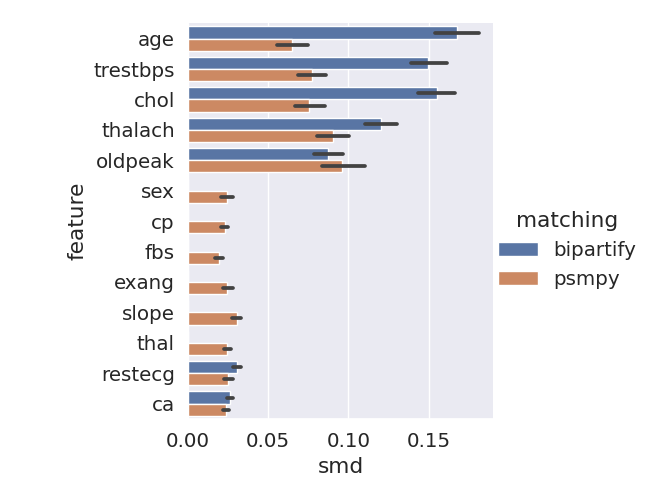
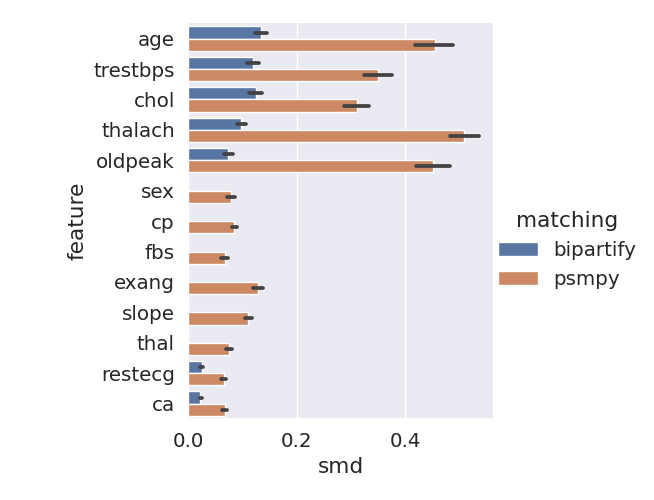
Fix convergence porblem with LR and RF

diff --git a/experiment/psmpy_vs_bipartify/compare_propensity_matching.py b/experiment/psmpy_vs_bipartify/compare_propensity_matching.py
@@ -10,20 +10,24 @@ from statsmodels.stats.meta_analysis import effectsize_smd
 from formulaic import ModelSpec, Formula
 from formulaic.parser.types.factor import Factor
 from popmatch.match import bipartify, split_populations_with_error, psmpy_match
-from popmatch.evaluation import compute_smd, compute_target_diff
+from popmatch.evaluation import compute_smd, compute_target_mean_difference
 from popmatch.preprocess import preprocess
 from popmatch.propensity import propensity_score
 from popmatch.experiment import dict_cache
 from popmatch.plot import plot_smds
 from scipy.stats import ttest_rel
+import itertools
+import tqdm
 
 
 experiment = {
     'input': {
         'dataset': 'heart',
-        #'propensity_model': 'logistic_regression',
-        'propensity_model': 'random_forest',
+        'propensity_model': 'logistic_regression',
+        #'propensity_model': 'random_forest',
         #'propensity_model': 'psmpy',
+        'propensity_transform': 'identity',
+        # 'propensity_transform': 'logit',
         'clip_score': 0.05,
         'calibrated': True,
         'random_state': 12,
@@ -36,41 +40,48 @@ experiment = {
 load_data(experiment)
 standardize_continuous_features(experiment)
 preprocess(experiment)
-split_ids = []
-targets = []
-for seed in range(0, 100):
-    split_id = 'split' + str(seed)
-    split_ids.append(split_id)
-    for not_already in dict_cache(experiment, split_id):
-        split_populations_with_error(experiment, input_random_state=seed, splitid=split_id)
-    propensity_score(experiment, input_random_state=seed, splitid=split_id)
-    bipartify(experiment, splitid=split_id, input_random_state=seed, n_match=1, feature_weight=0.1, verbose=1)
-    psmpy_match(experiment, splitid=split_id, input_random_state=seed)
 
-    bipartify_smd = compute_smd(experiment, splitid=split_id, matching='bipartify').smd.mean()
-    bipartify_n0, bipartify_n1, bipartify_target_diff = compute_target_diff(experiment, splitid=split_id, matching='bipartify')
-    targets.append({'n0': bipartify_n0, 'n1': bipartify_n1, 'target': bipartify_target_diff, 'matching': 'bipartify', 'split_id': split_id})
+transforms = ['score', 'logit']
+models = ['logistic_regression', 'random_forest', 'psmpy']
+for transform, model in itertools.product(transforms, models):
+    split_ids = []
+    targets = []
+    for seed in tqdm.tqdm(list(range(0, 100))):
+        split_id = 'split' + str(seed)
+        split_ids.append(split_id)
+        for not_already in dict_cache(experiment, split_id):
+            split_populations_with_error(experiment, input_random_state=seed, splitid=split_id)
+        propensity_score(experiment, input_random_state=seed, splitid=split_id,
+                         input_propensity_model=model, input_propensity_transform=transform)
+        bipartify(experiment, splitid=split_id, input_random_state=seed, n_match=1, feature_weight=0.1, verbose=1)
+        psmpy_match(experiment, splitid=split_id, input_random_state=seed)
 
-    psmpy_smd = compute_smd(experiment, splitid=split_id, matching='psmpy').smd.mean()
-    psmpy_n0, psmpy_n1, psmpy_target_diff = compute_target_diff(experiment, splitid=split_id, matching='psmpy')
-    targets.append({'n0': psmpy_n0, 'n1': psmpy_n1, 'target': psmpy_target_diff, 'matching': 'psmpy', 'split_id': split_id})
-    
-    print('Bipartify SMD', bipartify_smd)
-    print('Bipartify n0 / n1', bipartify_n0, bipartify_n1)
-    print('Bipartify target diff', bipartify_target_diff)
-    print('PsmPy SMD', psmpy_smd)
-    print('PsmPy n0 / n1', psmpy_n0, psmpy_n1)
-    print('PsmPy target diff', psmpy_target_diff)
-# compute_smd_baseline(experiment)
+        bipartify_smd = compute_smd(experiment, splitid=split_id, matching='bipartify').smd.mean()
+        bipartify_n0, bipartify_n1, bipartify_target_diff = compute_target_mean_difference(experiment, splitid=split_id, matching='bipartify')
+        targets.append({'n0': bipartify_n0, 'n1': bipartify_n1, 'target': bipartify_target_diff, 'matching': 'bipartify', 'split_id': split_id})
 
-plot_smds(experiment, split_ids, ['bipartify', 'psmpy'])
-targets = pd.DataFrame.from_records(targets).sort_values(by='split_id')
-targets_b = targets[targets.matching == 'bipartify'].target.values
-targets_p = targets[targets.matching == 'psmpy'].target.values
-print(targets.groupby('matching').mean())
-print('Bipartify wins {} percent of the times'.format((targets_b < targets_p).mean() * 100))
-print(targets.groupby('matching').target.describe())
-print(ttest_rel(targets_p, targets_b))
+        psmpy_smd = compute_smd(experiment, splitid=split_id, matching='psmpy').smd.mean()
+        psmpy_n0, psmpy_n1, psmpy_target_diff = compute_target_mean_difference(experiment, splitid=split_id, matching='psmpy')
+        targets.append({'n0': psmpy_n0, 'n1': psmpy_n1, 'target': psmpy_target_diff, 'matching': 'psmpy', 'split_id': split_id})
+        
+        # print('Bipartify SMD', bipartify_smd)
+        # print('Bipartify n0 / n1', bipartify_n0, bipartify_n1)
+        # print('Bipartify target diff', bipartify_target_diff)
+        # print('PsmPy SMD', psmpy_smd)
+        # print('PsmPy n0 / n1', psmpy_n0, psmpy_n1)
+        # print('PsmPy target diff', psmpy_target_diff)
+    # compute_smd_baseline(experiment)
+
+    print(f'Results for {transform} {model}')
+    plot_smds(experiment, split_ids, ['bipartify', 'psmpy'], f'smds_{transform}_{model}.png')
+    targets = pd.DataFrame.from_records(targets).sort_values(by='split_id')
+    targets_b = targets[targets.matching == 'bipartify'].target.values
+    targets_p = targets[targets.matching == 'psmpy'].target.values
+    print(targets.groupby('matching').mean())
+    print('Bipartify wins {} percent of the times'.format((targets_b < targets_p).mean() * 100))
+    print(targets.groupby('matching').target.describe())
+    print(ttest_rel(targets_p, targets_b))
+    print('\n\n')
 
 
 if False:

diff --git a/popmatch/propensity.py b/popmatch/propensity.py
@@ -3,35 +3,41 @@ from .experiment import dict_router, dict_wrapper
 import numpy as np
 import pandas as pd
 from psmpy import PsmPy
-from sklearn.linear_model import LogisticRegression
+from sklearn.linear_model import LogisticRegressionCV
 from sklearn.ensemble import RandomForestClassifier
 from sklearn.calibration import CalibratedClassifierCV
+from sklearn.model_selection import GridSearchCV
+from sklearn.metrics import make_scorer, accuracy_score
 
 
-@dict_wrapper('{splitid}_propensity_score', '{splitid}_propensity_logit')
-def propensity_logistic_regression(data_X, data_y, splitid_population, input_random_state,
-                                   input_calibrated=True, input_clip_score=0.001):
+@dict_wrapper('{splitid}_propensity_score')
+def propensity_logistic_regression(data_X, data_y, input_propensity_transform, splitid_population,
+                                   input_random_state, input_calibrated=True, input_clip_score=0.001):
     
     n_0 = (splitid_population == 0).sum()
     n_1 = (splitid_population == 1).sum()
     n = n_0 + n_1
     sample_weight = None
     if input_calibrated:
-        sample_weight = splitid_population.copy()
+        sample_weight = splitid_population.copy().astype(float)
         sample_weight[splitid_population == 0] = n_1 / n
         sample_weight[splitid_population == 1] = n_0 / n
-    clf = LogisticRegression(random_state=input_random_state)
+    clf = LogisticRegressionCV(random_state=input_random_state, max_iter=10000)
     clf.fit(data_X, data_y, sample_weight=sample_weight)
     propensity_score = clf.predict_proba(data_X)[:, 1]
+    # print('lr', propensity_score.min(), propensity_score.max(), propensity_score.mean(), propensity_score.std())
 
     if input_clip_score is not None:
         propensity_score = np.clip(propensity_score, input_clip_score, 1 - input_clip_score)
+
+    if input_propensity_transform == 'logit':
+        propensity_score = np.log(propensity_score / (1 - propensity_score))
     
-    return propensity_score, np.log(propensity_score / (1 - propensity_score))
+    return propensity_score
 
 
-@dict_wrapper('{splitid}_propensity_score', '{splitid}_propensity_logit')
-def propensity_psmpy(data_X, data_y, splitid_population, input_random_state,
+@dict_wrapper('{splitid}_propensity_score')
+def propensity_psmpy(data_X, data_y, input_propensity_transform, splitid_population, input_random_state,
                                    input_calibrated=True, input_clip_score=0.001):
     
     df = pd.DataFrame(data_X)
@@ -41,17 +47,40 @@ def propensity_psmpy(data_X, data_y, splitid_population, input_random_state,
     psm = PsmPy(df, treatment='groups', indx='index', exclude = [], seed=input_random_state)
     psm.logistic_ps(balance=input_calibrated)
 
-    return psm.predicted_data['propensity_score'], psm.predicted_data['propensity_logit']
+    if input_propensity_transform == 'score':
+        propensity_score = psm.predicted_data['propensity_score']
+    elif input_propensity_transform == 'logit':
+        propensity_score = psm.predicted_data['propensity_logit']
+    else:
+        raise ValueError()
+
+    return propensity_score
 
 
-@dict_wrapper('{splitid}_propensity_score', '{splitid}_propensity_logit')
-def propensity_random_forest(data_X, data_y,
+@dict_wrapper('{splitid}_propensity_score')
+def propensity_random_forest(data_X, data_y, input_propensity_transform,
                              input_calibrated=True, input_clip_score=0.001):
     
-    clf = RandomForestClassifier()
+    def valid_accuracy(y, y_pred, **kwargs):
+        accuracy = accuracy_score(y, y_pred > .5)
+        mean_valid_entries = ((y_pred >= input_clip_score) & (y_pred <= (1 - input_clip_score))).mean()
+        return accuracy + mean_valid_entries
+    scoring = make_scorer(valid_accuracy, needs_proba=True)
+    clf = RandomForestClassifier(min_weight_fraction_leaf=0.01)
     if input_calibrated:
         clf.fit(data_X, data_y)
-        clf = CalibratedClassifierCV(base_estimator=clf, method='sigmoid', cv='prefit')
+        clf = CalibratedClassifierCV(base_estimator=clf, method='sigmoid', n_jobs=-1)
+        param_grid = {
+            'base_estimator__n_estimators': [5, 10, 50],
+            'base_estimator__max_depth': [2, 5, 8]
+        }
+        clf = GridSearchCV(clf, param_grid, scoring=scoring, error_score='raise', n_jobs=-1)
+    else:
+        param_grid = {
+            'n_estimators': [5],#, 10, 50, 100],
+            'max_depth': [2, 5,],# 8, None]
+        }
+        clf = GridSearchCV(clf, param_grid, scoring=scoring, n_jobs=-1)
 
     clf.fit(data_X, data_y)
     propensity_score = clf.predict_proba(data_X)[:, 1]
@@ -59,7 +88,10 @@ def propensity_random_forest(data_X, data_y,
     if input_clip_score is not None:
         propensity_score = np.clip(propensity_score, input_clip_score, 1 - input_clip_score)
     
-    return propensity_score, np.log(propensity_score / (1 - propensity_score))
+    if input_propensity_transform == 'logit':
+        propensity_score = np.log(propensity_score / (1 - propensity_score))
+
+    return propensity_score
 
 
 @dict_router

diff --git a/experiment/compare_propensity_matching.py b/experiment/compare_propensity_matching.py
@@ -10,7 +10,7 @@ from statsmodels.stats.meta_analysis import effectsize_smd
 from formulaic import ModelSpec, Formula
 from formulaic.parser.types.factor import Factor
 from popmatch.match import bipartify, split_populations_with_error, psmpy_match
-from popmatch.evaluation import compute_smd, compute_target_diff
+from popmatch.evaluation import compute_smd, compute_target_mean_difference
 from popmatch.preprocess import preprocess
 from popmatch.propensity import propensity_score
 from popmatch.experiment import dict_cache
@@ -21,9 +21,9 @@ from scipy.stats import ttest_rel
 experiment = {
     'input': {
         'dataset': 'heart',
-        #'propensity_model': 'logistic_regression',
+        'propensity_model': 'logistic_regression',
         #'propensity_model': 'random_forest',
-        'propensity_model': 'psmpy',
+        #'propensity_model': 'psmpy',
         'clip_score': 0.05,
         'calibrated': True,
         'random_state': 12,
@@ -48,11 +48,11 @@ for seed in range(0, 100):
     psmpy_match(experiment, splitid=split_id, input_random_state=seed)
 
     bipartify_smd = compute_smd(experiment, splitid=split_id, matching='bipartify').smd.mean()
-    bipartify_n0, bipartify_n1, bipartify_target_diff = compute_target_diff(experiment, splitid=split_id, matching='bipartify')
+    bipartify_n0, bipartify_n1, bipartify_target_diff = compute_target_mean_difference(experiment, splitid=split_id, matching='bipartify')
     targets.append({'n0': bipartify_n0, 'n1': bipartify_n1, 'target': bipartify_target_diff, 'matching': 'bipartify', 'split_id': split_id})
 
     psmpy_smd = compute_smd(experiment, splitid=split_id, matching='psmpy').smd.mean()
-    psmpy_n0, psmpy_n1, psmpy_target_diff = compute_target_diff(experiment, splitid=split_id, matching='psmpy')
+    psmpy_n0, psmpy_n1, psmpy_target_diff = compute_target_mean_difference(experiment, splitid=split_id, matching='psmpy')
     targets.append({'n0': psmpy_n0, 'n1': psmpy_n1, 'target': psmpy_target_diff, 'matching': 'psmpy', 'split_id': split_id})
     
     print('Bipartify SMD', bipartify_smd)

diff --git a/popmatch/experiment.py b/popmatch/experiment.py
@@ -20,7 +20,7 @@ def dict_router(func):
                 if parameter.default == inspect._empty:
                     if varname not in d[section]:
                         raise ValueError('[{}] Var {} not in params dictionary'.format(name, varname))
-                    call_args.append(d[section][varname])
+                    call_args.append(kwargs[name] if name in kwargs else d[section][varname])
                 else:
                     if varname in d[section]:
                         call_kwargs[name] = d[section][varname]
@@ -50,7 +50,7 @@ def dict_wrapper(*out_names):
                 for name, parameter in inspect.signature(func).parameters.items():
                     # XXX This code is ugly and deserves some refactoring
 
-                    if name in kwargs:
+                    if name in kwargs and parameter.default != inspect._empty:
                         # We allow overriding some parameters in the kwargs
                         call_kwargs[name] = kwargs[name]
                         continue
@@ -71,7 +71,7 @@ def dict_wrapper(*out_names):
                     if parameter.default == inspect._empty:
                         if varname not in d[section]:
                             raise ValueError('[{}] Var {} not in params dictionary'.format(name, varname))
-                        call_args.append(d[section][varname])
+                        call_args.append(kwargs[name] if name in kwargs else d[section][varname])
                     else:
                         if varname in d[section]:
                             call_kwargs[name] = d[section][varname]
@@ -79,7 +79,7 @@ def dict_wrapper(*out_names):
                 if len(out_names) == 1:
                     result = [result]
                 assert(len(result) == len(out_names))
-                print(filled_out_names)
+                # print(filled_out_names)
                 for value, name in zip(result, filled_out_names):
                     section, varname = name.split('_', 1)
                     if section not in d:

diff --git a/popmatch/evaluation.py b/popmatch/evaluation.py
@@ -67,7 +67,22 @@ def compute_smd(data_df, data_continuous, data_categorical, data_ordinal, spliti
 
 
 @dict_wrapper('{splitid}_{matching}_n0, {splitid}_{matching}_n1, {splitid}_{matching}_target_diff')
-def compute_target_diff(data_y, splitid_matching_groups):
+def compute_target_mean_difference(data_y, splitid_matching_groups):
+    n0 = (splitid_matching_groups == 0).sum()
+    n1 = (splitid_matching_groups == 1).sum()
+    diff = np.abs(data_y[splitid_matching_groups == 0].mean() - data_y[splitid_matching_groups == 1].mean())
+    return n0, n1, diff
+
+
+@dict_wrapper('{splitid}_{matching}_n0, {splitid}_{matching}_n1, {splitid}_{matching}_target_diff')
+def compute_target_mean_difference(data_y, splitid_matching_groups):
+    n0 = (splitid_matching_groups == 0).sum()
+    n1 = (splitid_matching_groups == 1).sum()
+    diff = np.abs(data_y[splitid_matching_groups == 0].mean() - data_y[splitid_matching_groups == 1].mean())
+    return n0, n1, diff
+
+@dict_wrapper('{splitid}_{matching}_n0, {splitid}_{matching}_n1, {splitid}_{matching}_target_diff')
+def compute_km_log_rank(data_y, splitid_matching_groups):
     n0 = (splitid_matching_groups == 0).sum()
     n1 = (splitid_matching_groups == 1).sum()
     diff = np.abs(data_y[splitid_matching_groups == 0].mean() - data_y[splitid_matching_groups == 1].mean())

diff --git a/popmatch/match.py b/popmatch/match.py
@@ -10,6 +10,7 @@ from .cluster import GeneralPurposeClustering
 from scipy.sparse import csc_array
 from psmpy import PsmPy
 from sklearn.metrics import pairwise_distances
+import warnings
 
 
 @dict_wrapper('{splitid}_population')
@@ -49,7 +50,9 @@ def psmpy_match(data_X, splitid_population, splitid_propensity_score, input_rand
     # We give psmpy the score we want and override its interals
     psm.predicted_data['propensity_score'] = splitid_propensity_score
 
-    psm.knn_matched(matcher='propensity_score', replacement=False, drop_unmatched=True)
+    with warnings.catch_warnings():
+        warnings.simplefilter("ignore")
+        psm.knn_matched(matcher='propensity_score', replacement=False, drop_unmatched=True)
 
     groups = pd.DataFrame(-np.ones(df.shape[0]), index=df.index)
     groups.loc[psm.matched_ids["index"]] = 0

diff --git a/popmatch/plot.py b/popmatch/plot.py
@@ -5,7 +5,7 @@ import seaborn as sns
 
 
 
-def plot_smds(experiment, split_ids, matchings):
+def plot_smds(experiment, split_ids, matchings, filename):
     smds = []
     for splitid, matching in itertools.product(split_ids, matchings):
         smd = experiment[splitid][f"{matching}_smds"]
@@ -21,4 +21,7 @@ def plot_smds(experiment, split_ids, matchings):
         kind="bar",
         orient='h',
     )
-    plt.savefig('smds.png')
+    plt.savefig(filename)
+
+def plot_table(experiment, split_ids, matchings):
+    pass
